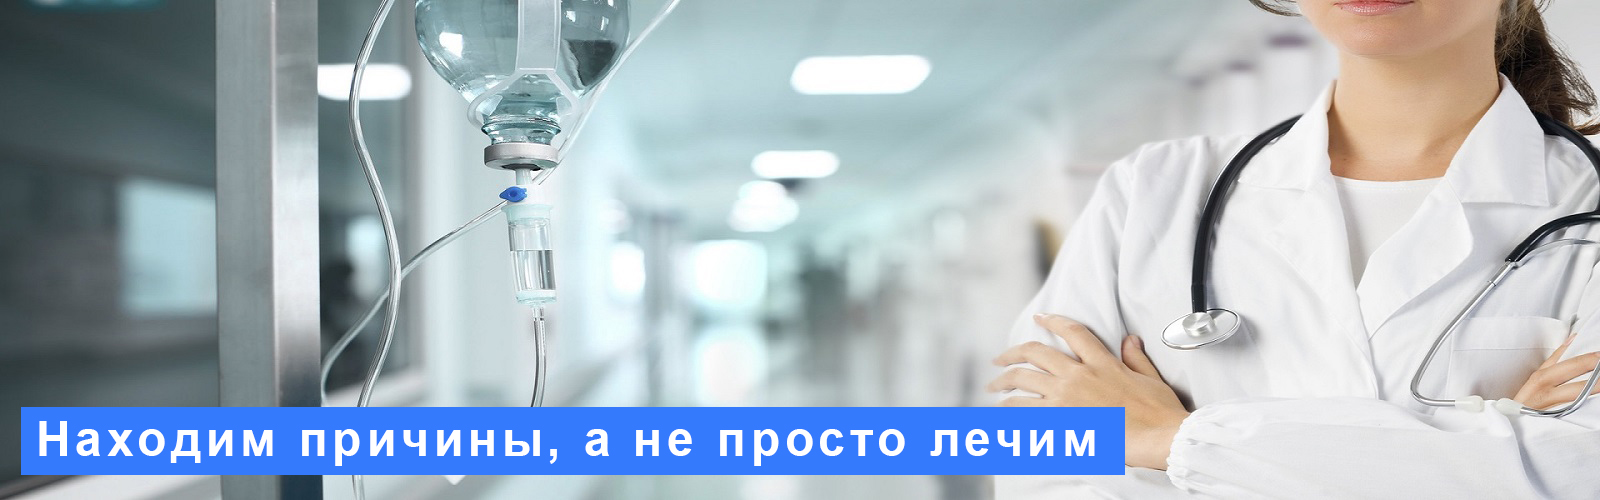
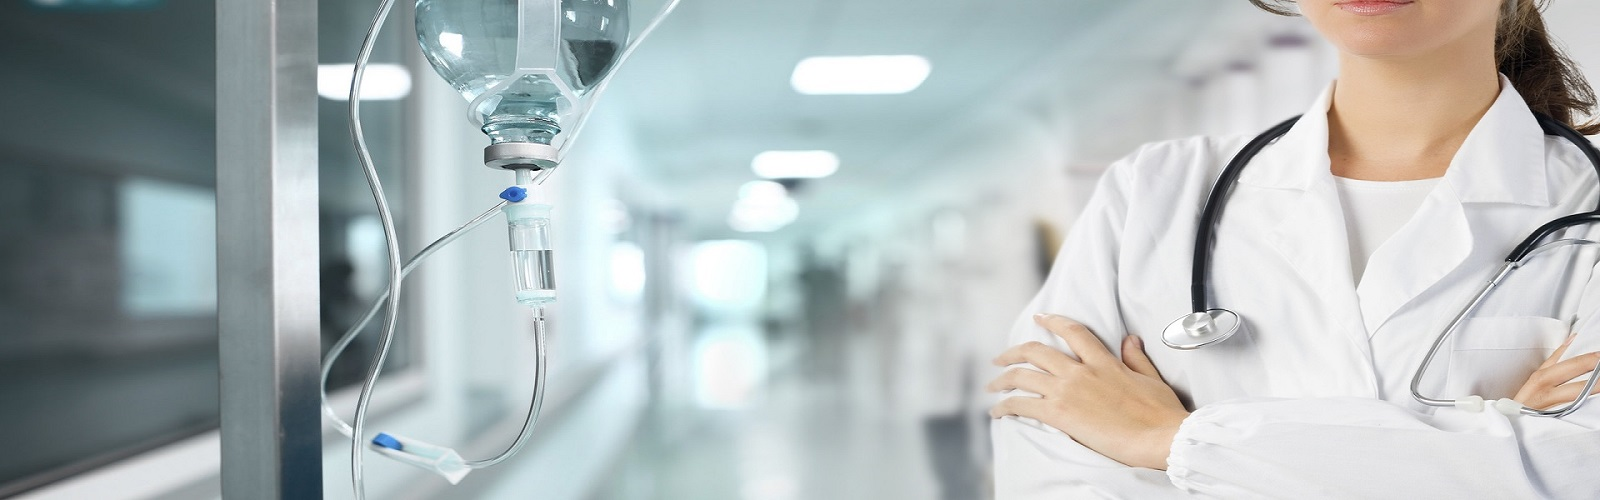
big fix

Changed region(s): [[0.0, 0.81, 0.7188, 0.96]]

diff --git a/templates/Default/main.html b/templates/Default/main.html
@@ -2,10 +2,22 @@
     <div class="slider">  
         <script src="{TEMPLATE}/js/slider.js"></script>              
         <div class="slides">
-            <img src="{TEMPLATE}/slides/1.jpg" alt="" class="slide">
-            <img src="{TEMPLATE}/slides/2.jpg" alt="" class="slide">
-            <img src="{TEMPLATE}/slides/3.jpg" alt="" class="slide">
-            <img src="{TEMPLATE}/slides/4.jpg" alt="" class="slide">
+            <div class="slide">
+                <img src="{TEMPLATE}/slides/1.jpg" alt="">
+                <div class="slide-panel">За здоровьем — это к нам!</div>
+            </div>
+            <div class="slide">
+                <img src="{TEMPLATE}/slides/2.jpg" alt="">
+                <div class="slide-panel">Доктора, которым вы доверяете</div>
+            </div>
+            <div class="slide">
+                <img src="{TEMPLATE}/slides/3.jpg" alt="">
+                <div class="slide-panel">Находим причины, а не просто лечим симптомы</div>
+            </div>
+            <div class="slide">
+                <img src="{TEMPLATE}/slides/4.jpg" alt="">
+                <div class="slide-panel">Здоровье должно быть доступным</div>
+            </div>
         </div>                             
     </div>
 </div>
@@ -48,7 +60,7 @@
 <div class="container-fill container-main"> 
     <div class="container-header">Информация</div>
     <div class="menu-site">        
-        <a href="/static/prace/" class="menu-site__item">                        
+        <a href="/static/price/" class="menu-site__item">                        
             <img src="{TEMPLATE}/img/price.png" alt="" class="menu-site__item__img">
             <div class="menu-site__item__content">
                 <div class="menu-site__item__title">Прайс-лист</div>
@@ -69,11 +81,11 @@
                 <div class="menu-site__item__text">Вся информация о донорах и возможность стать донором</div>
             </div>
         </a>
-        <a href="/static/information/" class="menu-site__item">                        
+        <a href="/static/about/" class="menu-site__item">                        
             <img src="{TEMPLATE}/img/hospital.png" alt="" class="menu-site__item__img">
             <div class="menu-site__item__content">
                 <div class="menu-site__item__title">О поликлинике</div>
-                <div class="menu-site__item__text">Узнать о нашей поликлинике подробнее. План здания.</div>
+                <div class="menu-site__item__text">Раздел, где вы можете узнать о нашей поликлинике подробнее.</div>
             </div>
         </a>
     </div>

diff --git a/templates/Default/appointments.html b/templates/Default/appointments.html
@@ -11,6 +11,9 @@
                 <div class="doctor-recdoc__item__text">
                     <div><b>Специальность: </b>{doctor.specialty}</div>
                     <div><b>Кабинет: </b>{doctor.kabinet}</div>
+                    [if doctor.qualification]
+                    <div><b>Ученая степень (категория): </b>{doctor.qualification}</div>
+                    [/if]
                 </div>
                 [if !USER]<div class="btn btn-recording login-link">Записаться на приём</div>[/if]
                 [if USER]<a href='{filter doctor.id | linkget "doctor"}' class="btn btn-recording">Записаться на приём</a>[/if]
@@ -31,6 +34,9 @@
                 <div class="doctor-recdoc__text">
                     <div><b>Специальность: </b>{doctor.specialty}</div>
                     <div><b>Кабинет: </b>{doctor.kabinet}</div>
+                    [if doctor.qualification]
+                    <div><b>Ученая степень (категория): </b>{doctor.qualification}</div>
+                    [/if]
                 </div>
             </div>            
         </div>        

diff --git a/engine/admin/modules/doctors/skin/edit.html b/engine/admin/modules/doctors/skin/edit.html
@@ -15,12 +15,16 @@
                         [/for]
                     </select>
                 </div>
+                <div class="form-group form-top">
+                    <label for="qualification">Ученая степень (категория):</label>
+                    <textarea name="qualification" id="qualification">{ doctor.qualification }</textarea>
+                </div>
                 <div class="form-group">
                     <label for="add_kabinet">Кабинет:</label>
                     <input type="text" name="kabinet" id="add_kabinet" class="form-control form-control-large" value="{doctor.kabinet}" required>
                 </div>   
                 <div class="form-group">
-                    <label for="add_kabinet">График работы:</label>
+                    <label>График работы:</label>
                     <div class="form-flex-wrap">
                         <div class="form-group">
                             <label for="add_mon">Понедельник:</label>

diff --git a/engine/admin/modules/doctors/skin/addnew.html b/engine/admin/modules/doctors/skin/addnew.html
@@ -15,12 +15,16 @@
                         [/for]
                     </select>
                 </div>
+                <div class="form-group form-top">
+                    <label for="qualification">Ученая степень (категория):</label>
+                    <textarea name="qualification" id="qualification"></textarea>
+                </div>   
                 <div class="form-group">
                     <label for="add_kabinet">Кабинет:</label>
                     <input type="text" name="kabinet" id="add_kabinet" class="form-control form-control-large" required>
                 </div>   
                 <div class="form-group">
-                    <label for="add_kabinet">График работы:</label>
+                    <label>График работы:</label>
                     <div class="form-flex-wrap">
                         <div class="form-group">
                             <label for="add_mon">Понедельник:</label>

diff --git a/templates/Default/css/style.css b/templates/Default/css/style.css
@@ -83,7 +83,7 @@ body{
     min-height: 100px;
     width: 100%;
     border-radius: 7px;
-    background: #e4e4e4;
+    background: #00000010;
     display: flex;
     justify-content: center;
     align-items: center;
@@ -275,7 +275,7 @@ header{
 }
 
 /* MEDIA HAMBURGER MENU ***************************** */
-@media (max-width: 720px) {
+@media (max-width: 980px) {
     .menu-button{
         display: block;        
     }
@@ -950,6 +950,7 @@ main{
 .doctors-recdoc{
     display: flex;
     flex-wrap: wrap;
+    gap: 10px 0;
     padding: 7px;
 }
 
@@ -986,6 +987,16 @@ main{
     display: flex;
     flex-direction: column;
     width: 100%;
+}
+
+.doctor-recdoc__item__text{
+    margin-bottom: 10px;
+}
+
+.doctor-recdoc__item__text p{
+    display: inline;
+    margin: 0;
+    padding: 0;
 }
 
 .btn-recording{
@@ -1036,6 +1047,11 @@ main{
 
 .doctor-recdoc__text{
     line-height: 1.5rem;
+}
+
+.doctor-recdoc__text p{
+    margin: 0;
+    padding: 0;
 }
 
 .form-picker{    

diff --git a/templates/Default/css/slider.css b/templates/Default/css/slider.css
@@ -3,17 +3,36 @@
     /* border-bottom: 2px solid #ddd;     */
 }
 
-.slides{
+.slider .slides{
     display: flex;
     transition:transform 1s ease;
 }
 
-.slide {
+.slider .slide {
+    position: relative;
     display: block;
     width: 100%;
+}
+
+.slider .slide-panel {
+    position: absolute;
+    padding: 7px 10px;
+    font-weight: bold;
+    font-size: 1.5rem;
+    color: #fff;
+    border-radius: 7px;
+    background: #1969ff;
+    bottom: 5px;
+    left: 5px;
 }
 
 .slider .slide img{
     display: block;
     width: 100%;
+}
+
+@media (max-width: 600px){
+    .slider .slide-panel {
+        font-size: 1rem;
+    }
 }

diff --git a/templates/Default/base.html b/templates/Default/base.html
@@ -32,6 +32,8 @@
                         <div class="links links-left">
                             <a href="/" class="topmenu__link">Главная</a>
                             <a href="/news/" class="topmenu__link">Новости</a>                            
+                            <a href="/static/price" class="topmenu__link">Прайс-лист</a>                            
+                            <a href="/static/about" class="topmenu__link">О нас</a>                            
                         </div>
                     </div>  
                 </div>

diff --git a/templates/Default/js/slider.js b/templates/Default/js/slider.js
@@ -27,7 +27,13 @@ document.addEventListener('DOMContentLoaded', function (e) {
         slides.style.transform = `translateX(-${width_slider*currentSlide}px)`;
 
         for(var i = 0; i < slides_list.length; i++){
-            slides_list[i].style.width = width_slider+"px";
+            slides_list[i].style.width = width_slider + "px";
+
+            if(slides_list[i].nodeName !== "IMG"){
+                var img = slides_list[i].querySelector('img');
+
+                img.style.width = width_slider + "px";
+            }
         }
     }
 });

diff --git a/engine/admin/modules/doctors/init.php b/engine/admin/modules/doctors/init.php
@@ -38,6 +38,10 @@
                     $fields = [
                         'name' => $_POST['name'],
                         'specialty_id' => $_POST['specialty'],
+                        'qualification' => [
+                            'html' => true,
+                            'value' => $_POST['qualification']
+                        ],
                         'kabinet' => $_POST['kabinet'],
                         'mon' => isset($_POST['mon']),
                         'tue' => isset($_POST['tue']),
@@ -94,6 +98,10 @@
                     'name' => $_POST['name'],
                     'specialty_id' => $_POST['specialty'],
                     'kabinet' => $_POST['kabinet'],
+                    'qualification' => [
+                        'html' => true,
+                        'value' => $_POST['qualification']
+                    ],
                     'mon' => isset($_POST['mon']),
                     'tue' => isset($_POST['tue']),
                     'wed' => isset($_POST['wed']),

diff --git a/engine/modules/profile.php b/engine/modules/profile.php
@@ -90,7 +90,7 @@
 
 			$appointment = $db->table('appointments')->where('number', '=', $_POST['param'])->first();
 			
-			if($appointment['reg_time'] > time() - 1800){
+			if($appointment['time'] > time()){
 
 				$result = $db->table('appointments')
 					->where('user_id', '=', Store::get('USER.id'))
@@ -118,7 +118,7 @@
 				->get();
 		
 		foreach ($appointments as &$appointment){
-			if($appointment['reg_time'] > time() - 1800){
+			if($appointment['time'] > time()){
 				$appointment['is_can_canceled'] = true;
 			} else {
 				$appointment['is_can_canceled'] = false;

diff --git a/engine/router.php b/engine/router.php
@@ -1,5 +1,5 @@
 <?php
-    switch (isset($_GET['do']) ? $_GET['do'] : '') {
+    switch (isset($_GET['do']) ? $_GET['do'] : 'main') {
         case 'main':
             require_once ENGINE_DIR.'/modules/main.php';
             break;
